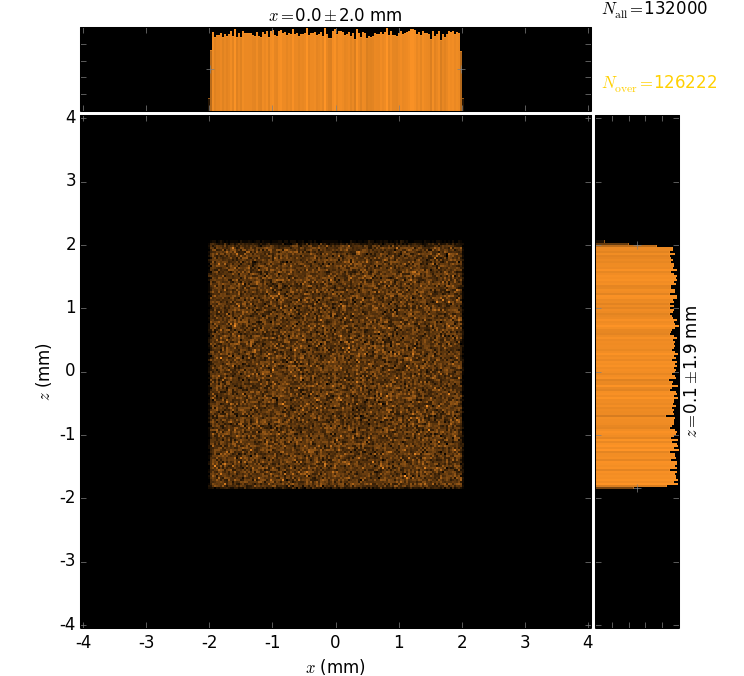
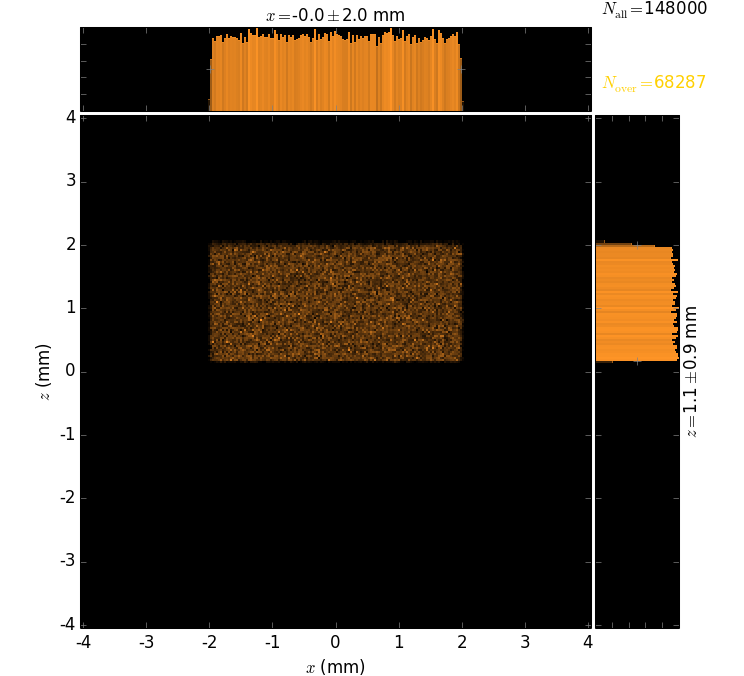
Transmission still seems to be unrelated to width of passed object..

diff --git a/object_testing.py b/object_testing.py
@@ -82,7 +82,7 @@ def build_beamline(nrays=1000):
     shape = [(0.1*v[0], 0.1*v[1]) for v in shape]
 
     # Set position and thickness
-    limPhysY = [39.8, 39.95]
+    limPhysY = [37.8, 39.95]
     limPhysX = [-2.0, 2.0]
 
     # Tested material
